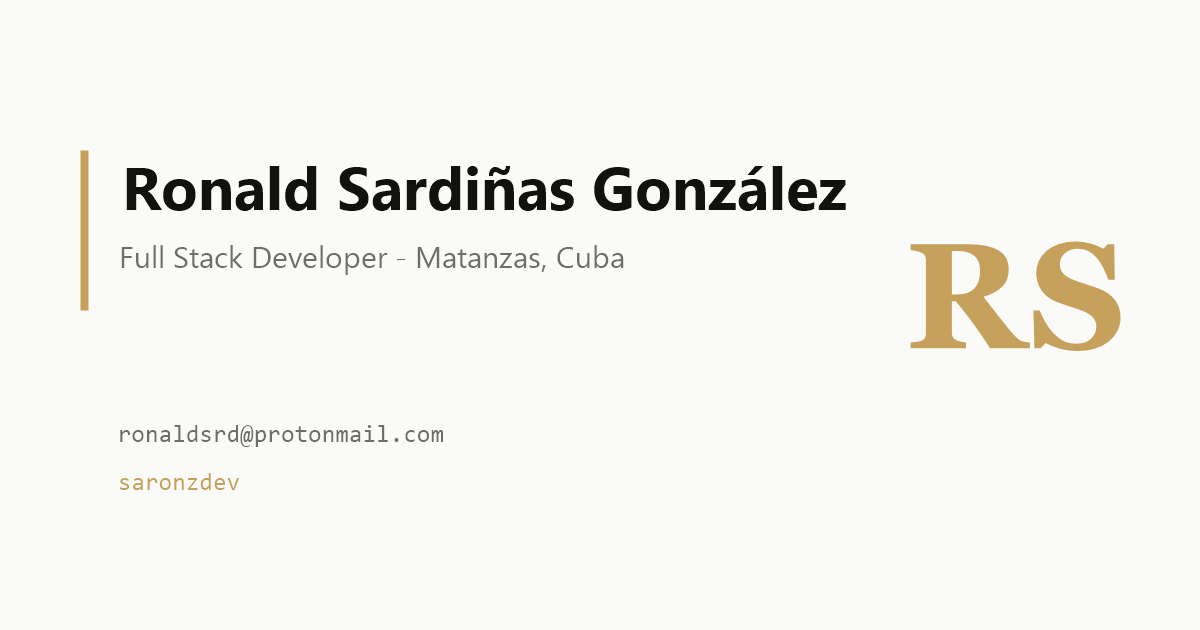
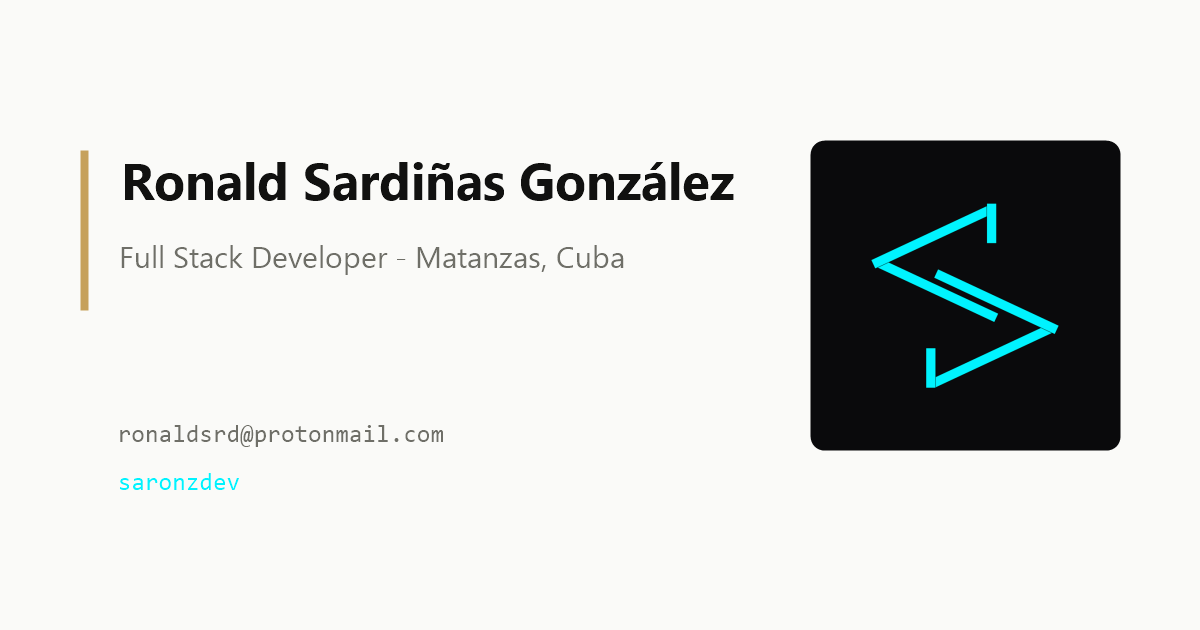
feat: uniform project grid, brand mark in hero, working back to top
- Projects: the featured/full-width block is gone. Both projects sit in the
  same 2 column grid with a 3/2 cover (about 277px tall) and a smaller
  monogram. "More on GitHub" became a thin row under the grid instead of a
  third card.
- Hero: the light/dark illustration is replaced by the brand mark, cropped to
  its content (726x766) and rendered as a real img with intrinsic size, so the
  black plate blends into the dark theme and reads as a dark card in light.
- Back to top: #top now lives on a zero-height span at the start of the body
  instead of the sticky header, which the browser never scrolled to. A click
  handler adds an explicit window.scrollTo that honours reduced motion.
- Favicon, apple touch icon, manifest and og.png now use the cyan brand symbol
  instead of the placeholder gold initials.

Changed region(s): [[0.0925, 0.2111, 0.9558, 0.7238], [0.0925, 0.754, 0.2158, 0.7841]]

diff --git a/src/data/projects.ts b/src/data/projects.ts
@@ -11,7 +11,6 @@ export interface Project {
   description: string;
   stack: string[];
   links: ProjectLink[];
-  featured?: boolean;
   coverTone: string;
   coverToneMid?: string;
   coverToneTo: string;
@@ -23,7 +22,6 @@ export const projects: Project[] = [
     name: 'Frank Joyería',
     status: 'Live',
     year: '2026',
-    featured: true,
     description:
       'Full e-commerce platform for a jewelry store in Cuba: dynamic catalog, admin dashboard with product CRUD and image uploads, WhatsApp reservations, and a PWA frontend backed by its own REST API.',
     stack: ['Preact', 'TypeScript', 'Express', 'Turso', 'Redis', 'Vitest'],

diff --git a/src/styles/global.css b/src/styles/global.css
@@ -217,6 +217,13 @@ button {
   top: 0;
 }
 
+/* real anchor at the very top of the document: the sticky header can never be
+   the target of a fragment navigation, so "back to top" needs its own node */
+.top-anchor {
+  display: block;
+  height: 0;
+}
+
 /* ---------- reveal on scroll (progressive enhancement) ---------- */
 
 @media (prefers-reduced-motion: no-preference) {

diff --git a/README.md b/README.md
@@ -27,7 +27,7 @@ fonts, no tracking. Dark mode included, with a light/dark toggle and a system pr
 
 ```text
 src/
-├── assets/             # hero illustration (light and dark variants)
+├── assets/            # brand mark used in the hero
 ├── components/        # Header, Hero, About, Stack, Projects, Experience, Contact, Footer
 ├── data/              # Typed content: site, stack, projects, experience
 ├── layouts/           # BaseLayout: SEO, JSON-LD, theme bootstrap
@@ -45,7 +45,7 @@ Everything you will want to change lives in `src/data/`:
 | :--------------------- | :--------------------------------------------------------- |
 | `src/data/site.ts`     | Name, role, location, availability, email, socials, copy    |
 | `src/data/stack.ts`    | Stack cards and the "also working with" list                |
-| `src/data/projects.ts` | Projects, their stack, links and cover images               |
+| `src/data/projects.ts` | Projects, their stack, links and cover gradients            |
 | `src/data/experience.ts` | Experience and education entries                          |
 
 ## Before deploying
